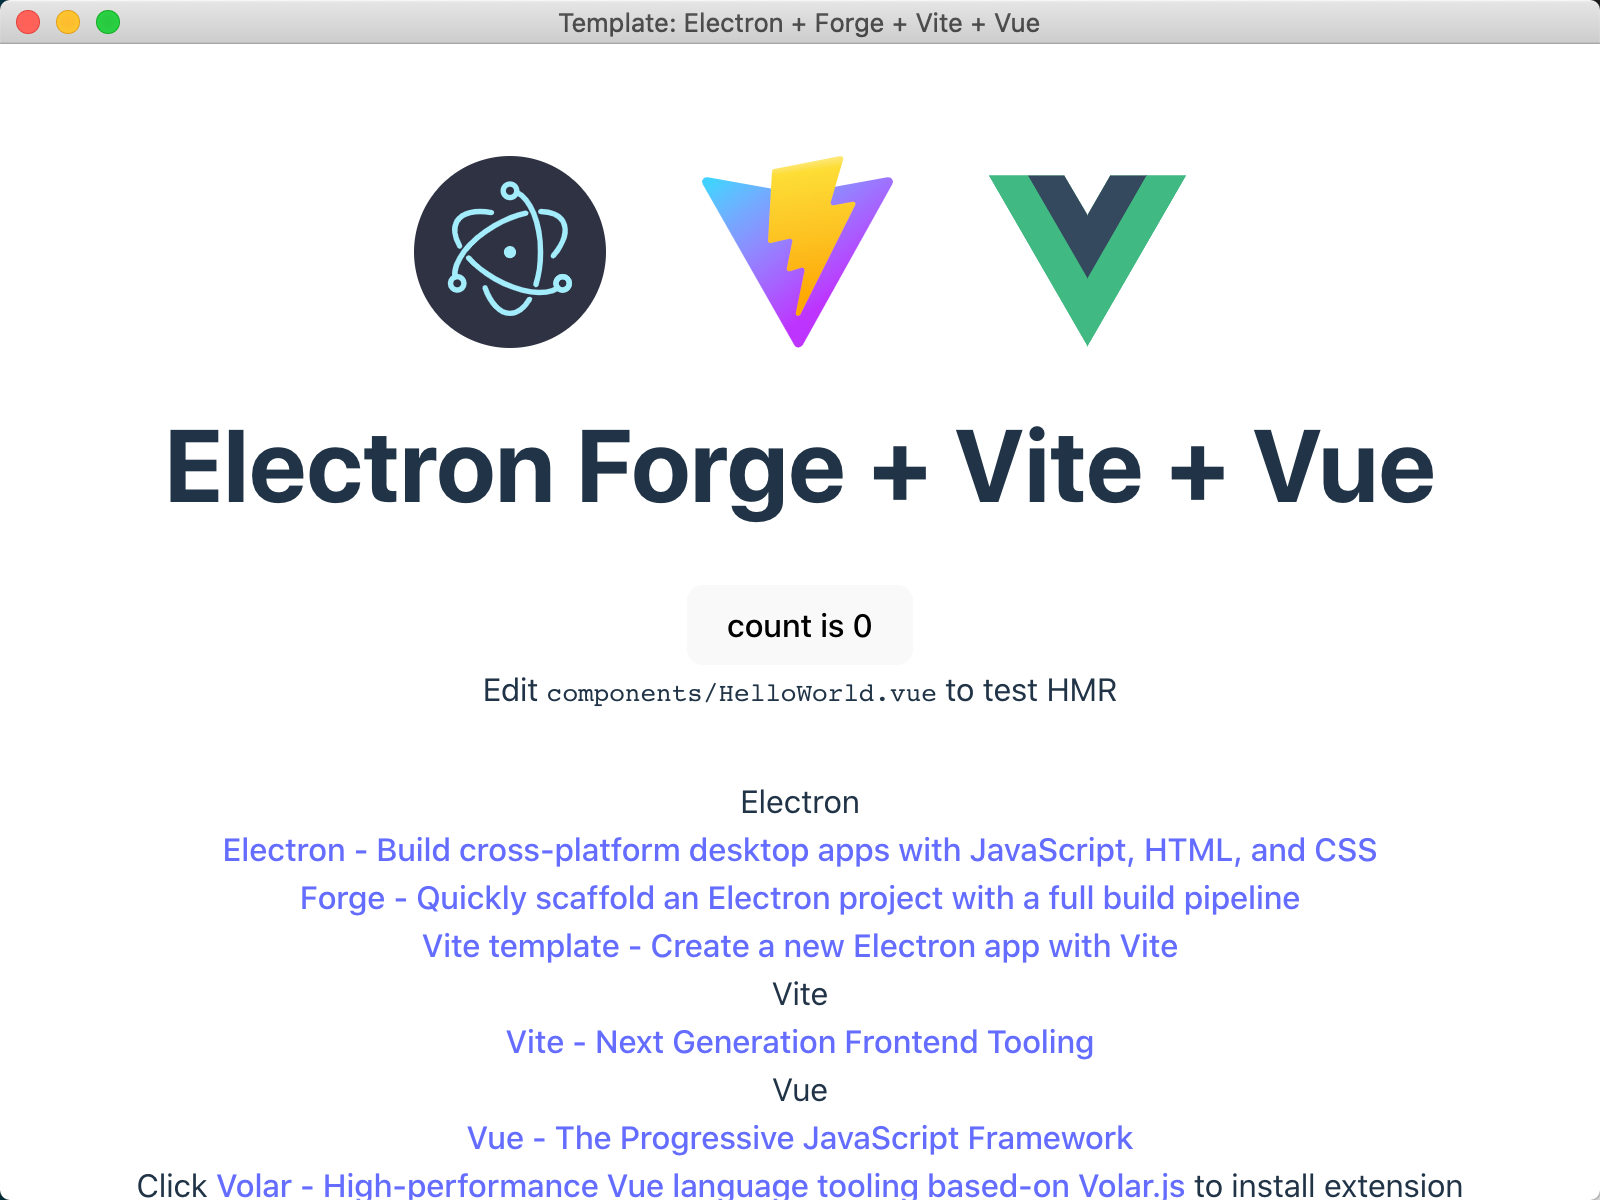
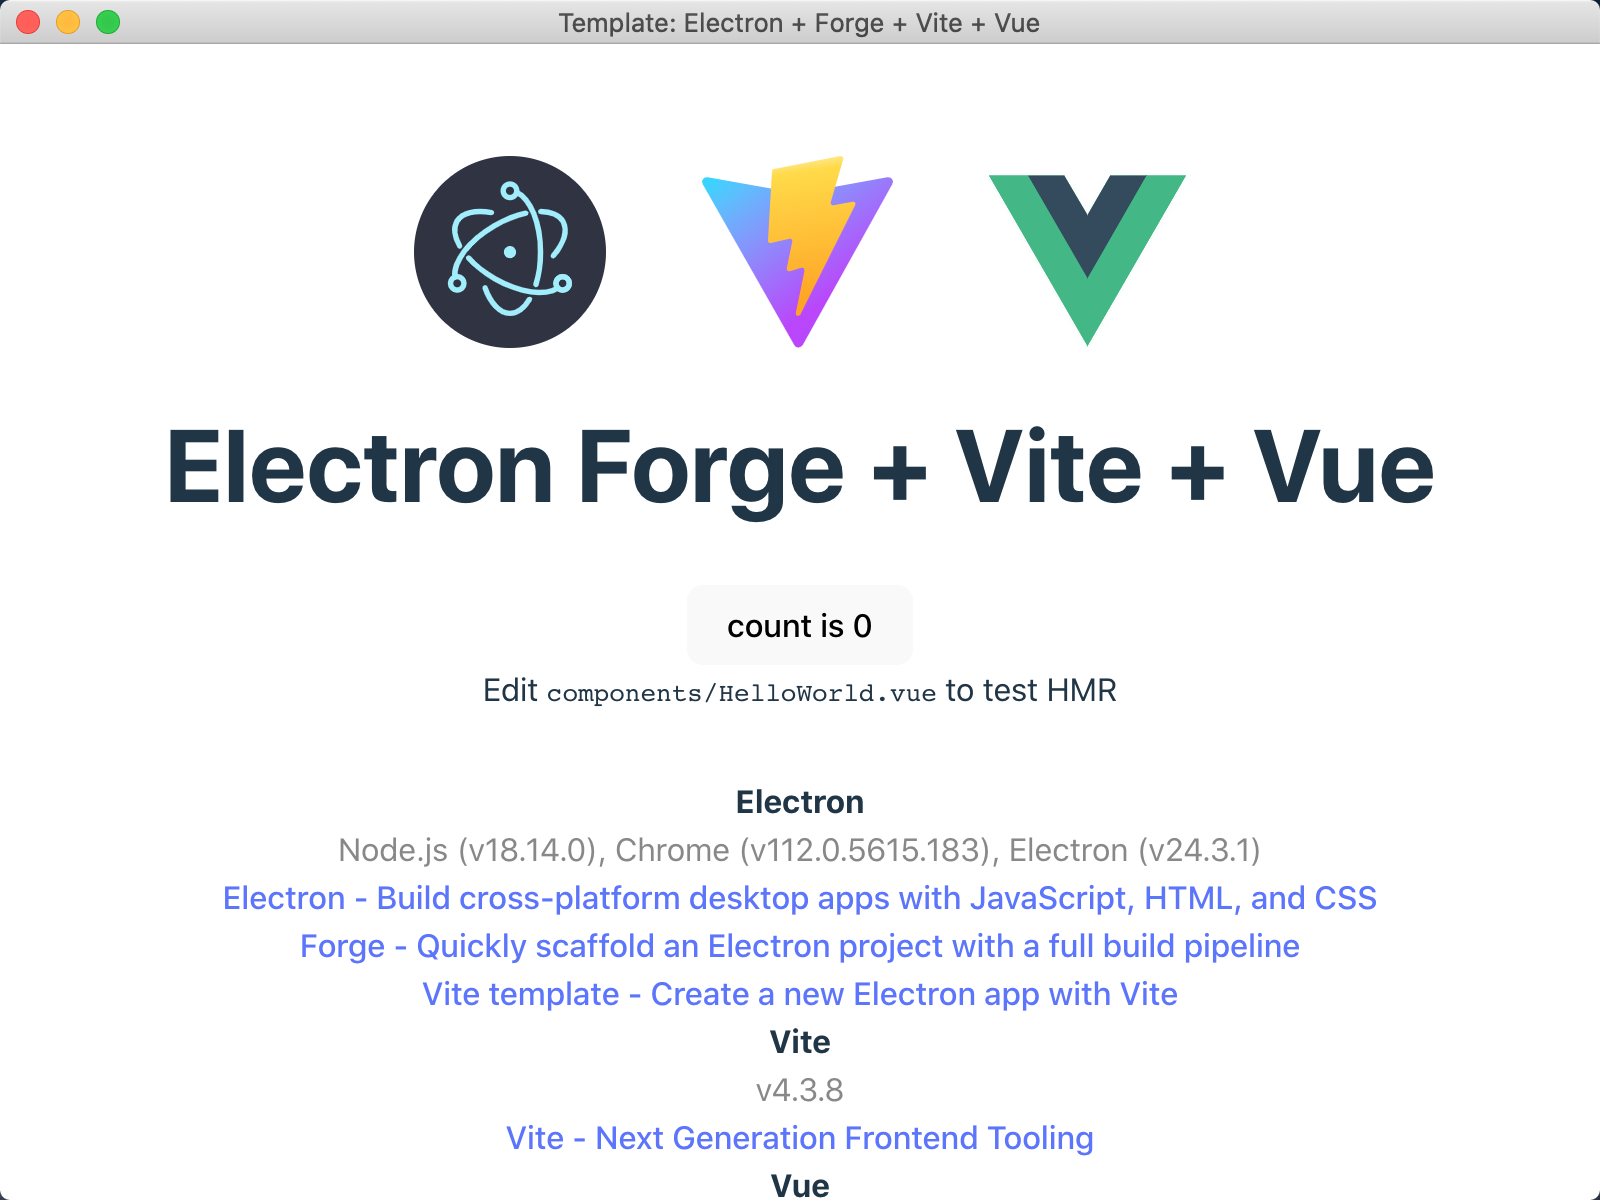
feat: add preload demo, ipc demo and project structure optimization

Changed region(s): [[0.0938, 0.6475, 0.9062, 1.0], [0.5, 0.2158, 0.5312, 0.2467]]

diff --git a/src/main.js b/src/main.js
@@ -1,9 +1,9 @@
-const { app, BrowserWindow } = require('electron');
-const path = require('path');
+const { app, BrowserWindow, ipcMain } = require('electron')
+const path = require('path')
 
 // Handle creating/removing shortcuts on Windows when installing/uninstalling.
 if (require('electron-squirrel-startup')) {
-  app.quit();
+  app.quit()
 }
 
 const createWindow = () => {
@@ -14,40 +14,47 @@ const createWindow = () => {
     webPreferences: {
       preload: path.join(__dirname, 'preload.js'),
     },
-  });
+  })
 
   // and load the index.html of the app.
   if (MAIN_WINDOW_VITE_DEV_SERVER_URL) {
-    mainWindow.loadURL(MAIN_WINDOW_VITE_DEV_SERVER_URL);
+    mainWindow.loadURL(MAIN_WINDOW_VITE_DEV_SERVER_URL)
   } else {
-    mainWindow.loadFile(path.join(__dirname, `../renderer/${MAIN_WINDOW_VITE_NAME}/index.html`));
+    mainWindow.loadFile(path.join(__dirname, `../renderer/${MAIN_WINDOW_VITE_NAME}/index.html`))
   }
 
   // Open the DevTools.
-  mainWindow.webContents.openDevTools();
+  mainWindow.webContents.openDevTools()
 };
+
+// ipc demo
+const ping = () => 'pong'
 
 // This method will be called when Electron has finished
 // initialization and is ready to create browser windows.
 // Some APIs can only be used after this event occurs.
-app.on('ready', createWindow);
+app.whenReady().then(() => {
+  createWindow()
+
+  ipcMain.handle('ping', ping)
+})
 
 // Quit when all windows are closed, except on macOS. There, it's common
 // for applications and their menu bar to stay active until the user quits
 // explicitly with Cmd + Q.
 app.on('window-all-closed', () => {
   if (process.platform !== 'darwin') {
-    app.quit();
+    app.quit()
   }
-});
+})
 
 app.on('activate', () => {
   // On OS X it's common to re-create a window in the app when the
   // dock icon is clicked and there are no other windows open.
   if (BrowserWindow.getAllWindows().length === 0) {
-    createWindow();
+    createWindow()
   }
-});
+})
 
 // In this file you can include the rest of your app's specific main process
 // code. You can also put them in separate files and import them here.

diff --git a/src/components/HelloWorld.vue b/src/components/HelloWorld.vue
@@ -1,11 +1,15 @@
 <script setup>
-import { ref } from 'vue'
+import { ref, version as vueVer } from 'vue'
+import { version as viteVer } from '../../node_modules/vite/package.json'
 
 defineProps({
   msg: String,
 })
 
 const count = ref(0)
+const nodeVer = versions.node()
+const chromeVer = versions.chrome()
+const electronVer = versions.electron()
 </script>
 
 <template>
@@ -20,7 +24,8 @@ const count = ref(0)
   </div>
 
   <p>
-    Electron
+    <strong>Electron</strong>
+    <p class="lib-version">Node.js (v{{ nodeVer }}), Chrome (v{{ chromeVer }}), Electron (v{{ electronVer }})</p>
     <p>
       <a href="https://www.electronjs.org" target="_blank">Electron - Build cross-platform desktop apps with JavaScript, HTML, and CSS</a><br/>
       <a href="https://www.electronforge.io" target="_blank">Forge - Quickly scaffold an Electron project with a full build pipeline</a><br/>
@@ -28,13 +33,15 @@ const count = ref(0)
     </p>
   </p>
   <p>
-    Vite
+    <strong>Vite</strong>
+    <p class="lib-version"> v{{ viteVer }}</p>
     <p>
       <a href="https://vitejs.dev" target="_blank">Vite - Next Generation Frontend Tooling</a>
     </p>
   </p>
   <p>
-    Vue
+    <strong>Vue</strong>
+    <p class="lib-version"> v{{ vueVer }}</p>
     <p>
       <a href="https://vuejs.org" target="_blank">Vue - The Progressive JavaScript Framework</a><br/>
       Click
@@ -46,6 +53,9 @@ const count = ref(0)
 </template>
 
 <style scoped>
+.lib-version {
+  color: #888;
+}
 .read-the-docs {
   color: #888;
 }

diff --git a/src/views/App.vue b/src/views/App.vue
@@ -1,17 +1,17 @@
 <script setup>
-import HelloWorld from './components/HelloWorld.vue'
+import HelloWorld from '../components/HelloWorld.vue'
 </script>
 
 <template>
   <div>
     <a href="https://www.electronforge.io" target="_blank">
-      <img src="./assets/electron.svg" class="logo electron" alt="Electron logo" />
+      <img src="../assets/images/electron.svg" class="logo electron" alt="Electron logo" />
     </a>
     <a href="https://vitejs.dev" target="_blank">
-      <img src="./assets/vite.svg" class="logo vite" alt="Vite logo" />
+      <img src="../assets/images/vite.svg" class="logo vite" alt="Vite logo" />
     </a>
     <a href="https://vuejs.org/" target="_blank">
-      <img src="./assets/vue.svg" class="logo vue" alt="Vue logo" />
+      <img src="../assets/images/vue.svg" class="logo vue" alt="Vue logo" />
     </a>
   </div>
   <HelloWorld msg="Electron Forge + Vite + Vue" />

diff --git a/src/preload.js b/src/preload.js
@@ -1,2 +1,12 @@
 // See the Electron documentation for details on how to use preload scripts:
 // https://www.electronjs.org/docs/latest/tutorial/process-model#preload-scripts
+
+const { contextBridge, ipcRenderer } = require('electron')
+
+contextBridge.exposeInMainWorld('versions', {
+  node: () => process.versions.node,
+  chrome: () => process.versions.chrome,
+  electron: () => process.versions.electron,
+  ping: () => ipcRenderer.invoke('ping')
+  // We can expose not only functions, but also variables
+})

diff --git a/src/renderer.js b/src/renderer.js
@@ -26,11 +26,18 @@
  * ```
  */
 
-import { createApp } from 'vue'
-import App from './App.vue'
+import { startup as vueStartup } from './vue.main'
 
-// vue index样式
 import './style.css'
 
 console.log('👋 This message is being logged by "renderer.js", included via Vite')
-createApp(App).mount('#app')
+
+// IPC demo
+const ipcPing = async () => {
+  const response = await window.versions.ping()
+  console.log('👋 This is Electron IPC result: ' + response)
+}
+ipcPing()
+
+// vue startup
+vueStartup()

diff --git a/src/vue.main.js b/src/vue.main.js
@@ -1,0 +1,10 @@
+import { createApp } from 'vue'
+import App from './views/App.vue'
+
+const startup = () => {
+  createApp(App).mount('#app')
+}
+
+export {
+  startup
+}

diff --git a/forge.config.js b/forge.config.js
@@ -45,4 +45,4 @@ module.exports = {
       },
     },
   ],
-};
+}
